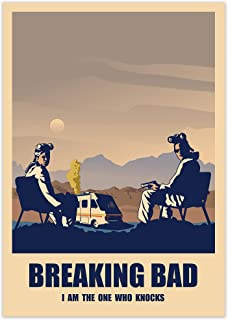
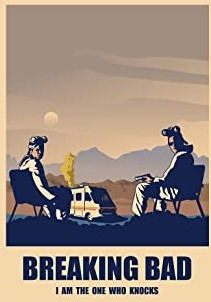
correccion interacciones botones nav - cambio img en info gral

diff --git a/index.js b/index.js
@@ -1,12 +1,3 @@
-/*
-PENDIENTE
-
-ver paginacion: https://breakingbadapi.com/api/characters?limit=10&offset=10 
-
-DOCUMENTACION: https://breakingbadapi.com/documentation
-
-SECCIONES CITAS Y MUERTES??*/
-
 
 //*****Seleccion elementos del Dom y Variables*******
 const UrlBase = "https://www.breakingbadapi.com/api/"
@@ -27,6 +18,7 @@ const inputBusqueda = document.querySelector("#input-busqueda")
 
 const botonAnterior = document.querySelector("#anterior")
 const botonSiguiente = document.querySelector("#siguiente")
+const contenedorPaginador = document.querySelector(".contenedor-paginador")
 
 const seccionPersonajes = document.querySelector(".seccion-personajes")
 const cardPersonajes = document.querySelector("#card-personajes")
@@ -55,15 +47,13 @@ const traerInfoPersonajes= () =>{
 botonAnterior.onclick = () => {
     paginaActual--
     traerInfoPersonajes()
-  }
+}
   
 botonSiguiente.onclick = () => {
     paginaActual++
     traerInfoPersonajes()
-  }
+}
   
-  traerInfoPersonajes()
-
 traerInfoPersonajes()
 
 //**********Get endpoint episodios************
@@ -123,47 +113,7 @@ const crearTarjetaEpisodios = (data) =>{
 traerInfoEpisodios()
 
 
-//***Interacciones con los botones nav y tarjeta individual****
-contenedorImgNav.onclick = () => {
-    hero.classList.remove("ocultar")
-    seccionBuscador.classList.add("ocultar")
-    seccionPersonajes.classList.add("ocultar")
-    seccionEpisodios.classList.add("ocultar")
-    contenedorTarjetasIndividuales.classList.add("ocultar")
-}
 
-// const botonInfo = document.querySelector(".boton-info")
-// const seccionInfoGeneral = document.querySelector(".info-general")
-botonInfo.onclick = () => {
-    hero.classList.add("ocultar")
-    seccionInfoGeneral.classList.remove("ocultar")
-}
-
-botonPersonajes.onclick = () => {
-    hero.classList.add("ocultar")
-    seccionBuscador.classList.remove("ocultar")
-    seccionPersonajes.classList.remove("ocultar")
-    seccionEpisodios.classList.add("ocultar")
-    cardPersonajes.classList.remove("ocultar")
-}
-
-botonEpisodios.onclick = () => {
-    hero.classList.add("ocultar")
-    seccionPersonajes.classList.add("ocultar")
-    seccionEpisodios.classList.remove("ocultar") 
-    seccionBuscador.classList.add("ocultar")
-    contenedorTarjetasIndividuales.classList.add("ocultar")
-}
-
-botonVolver.onclick = () => {
-    hero.classList.add("ocultar")
-    seccionBuscador.classList.remove("ocultar")
-    seccionPersonajes.classList.remove("ocultar")
-    seccionEpisodios.classList.add("ocultar")
-    cardPersonajes.classList.remove("ocultar")
-    //tarjetasIndividuales.classList.add("ocultar")
-    contenedorTarjetasIndividuales.classList.add("ocultar")
-}
 
 //*****busqueda por personajes en campo busqueda****
 const busquedaPersonajes = (busqueda) => {
@@ -172,15 +122,15 @@ const busquedaPersonajes = (busqueda) => {
         .then((res) => res.json())
         .then((data) => {
             crearTarjeta(data)
-
-        })
+    })
 }
 
 formBusqueda.onsubmit = (e) => {
     e.preventDefault()
     busquedaPersonajes(inputBusqueda.value)
+    
 }
-
+traerInfoPersonajes()
 
 //*******Card individual*******
 const verCardIndividual = (char_id) =>{
@@ -200,7 +150,7 @@ const verCardIndividual = (char_id) =>{
             <img id="imagen-personaje" src="${elemento.img}" alt="">
         </div>
         <p id="nombre-personaje"> <strong>Nombre:</strong> ${elemento.name}</p>
-        <p id="nickname-personaje"><strong>Nick Name:</strong> Nick Name:${elemento.nickname}</p>
+        <p id="nickname-personaje"><strong>Nick Name:</strong> ${elemento.nickname}</p>
         <p id="ocupacion-personaje"><strong>Ocupación:</strong>  ${elemento.occupation}</p>
         <p id="status-personaje"><strong>Status:</strong> ${elemento.status}</p>
         </div>
@@ -220,8 +170,51 @@ const clickTarjetaPersonaje = () =>{
             const idPersonajes = cards[i].dataset.id;
             contenedorTarjetasIndividuales.classList.remove("ocultar")
             cardPersonajes.classList.add("ocultar")
+            contenedorPaginador.classList.add("ocultar")
             verCardIndividual(idPersonajes);
         }
     }
 } 
 
+
+//***Interacciones con los botones nav y tarjeta individual****
+
+const addOcultar = () =>{
+    hero.classList.add("ocultar")
+    seccionBuscador.classList.add("ocultar")
+    seccionPersonajes.classList.add("ocultar")
+    seccionEpisodios.classList.add("ocultar")
+    contenedorTarjetasIndividuales.classList.add("ocultar")
+    seccionInfoGeneral.classList.add("ocultar")
+    
+}
+
+contenedorImgNav.onclick = () => {
+    addOcultar()
+    hero.classList.remove("ocultar")
+}
+
+botonInfo.onclick = () => {
+    addOcultar()
+    seccionInfoGeneral.classList.remove("ocultar")
+}
+
+botonPersonajes.onclick = () => {
+    addOcultar()
+    cardPersonajes.classList.remove("ocultar")
+    seccionBuscador.classList.remove("ocultar")
+    seccionPersonajes.classList.remove("ocultar")
+}
+
+botonEpisodios.onclick = () => {
+    addOcultar()
+    seccionEpisodios.classList.remove("ocultar") 
+}
+
+botonVolver.onclick = () => {
+    addOcultar()
+    contenedorPaginador.classList.remove("ocultar")
+    cardPersonajes.classList.remove("ocultar")
+    seccionBuscador.classList.remove("ocultar")
+    seccionPersonajes.classList.remove("ocultar")
+}

diff --git a/style.css b/style.css
@@ -28,9 +28,9 @@ p, h1, h2, h3, h4, h5, h6 {
   margin: 15px;
   border: 2px solid #6E6A5E;
   border-radius: 5px;
-  color: #54534f;
+  color: #0e0d0d;
   font-family: "Fira Sans", sans-serif;
-  background-color: #d6dbd9;
+  background-color: #eaecec;
   box-shadow: 5px 5px 12px -3px #EBD387;
   display: flex;
   flex-direction: column;
@@ -43,7 +43,7 @@ p, h1, h2, h3, h4, h5, h6 {
   width: 160px;
   height: 160px;
   overflow: hidden;
-  box-shadow: 5px 5px 12px -3px #54534f;
+  box-shadow: 5px 5px 12px -3px #0e0d0d;
   display: flex;
   flex-direction: row;
   justify-content: center;
@@ -70,9 +70,9 @@ p, h1, h2, h3, h4, h5, h6 {
   margin: 15px;
   border: 2px solid #6E6A5E;
   border-radius: 5px;
-  color: #54534f;
+  color: #0e0d0d;
   font-family: "Fira Sans", sans-serif;
-  background-color: #d6dbd9;
+  background-color: #eaecec;
   box-shadow: 5px 5px 12px -3px #EBD387;
   font-size: 15px;
   height: auto;
@@ -87,15 +87,15 @@ p, h1, h2, h3, h4, h5, h6 {
 }
 
 .tarjeta-individual {
-  width: 300px;
+  width: 350px;
   height: 240px;
   padding: 20px;
   margin: 15px;
   border: 2px solid #6E6A5E;
   border-radius: 5px;
-  color: #54534f;
+  color: #0e0d0d;
   font-family: "Fira Sans", sans-serif;
-  background-color: #d6dbd9;
+  background-color: #eaecec;
   box-shadow: 5px 5px 12px -3px #EBD387;
   display: flex;
   flex-direction: column;
@@ -111,7 +111,7 @@ nav {
   justify-content: space-around;
   align-items: center;
   flex-wrap: wrap;
-  background-color: #54534f;
+  background-color: #0e0d0d;
   position: fixed;
   z-index: 3;
   padding-bottom: 20px;
@@ -169,7 +169,7 @@ label {
 
 .input-busqueda {
   margin-top: 180px;
-  background-color: #54534f;
+  background-color: #0e0d0d;
   border: 0;
   border-bottom: solid 3px #EBD387;
   font-family: "Fira Sans", sans-serif;
@@ -204,7 +204,7 @@ label {
 .info-general {
   display: flex;
   flex-direction: row;
-  justify-content: justify-content;
+  justify-content: space-around;
   align-items: center;
   flex-wrap: wrap;
   font-family: "Fira Sans", sans-serif;
@@ -212,12 +212,11 @@ label {
   font-size: 20px;
   font-weight: 200;
   text-align: justify;
+  padding-top: 180px;
 }
 
 .contenedor-parrafo {
   width: 600px;
-  padding-top: 180px;
-  margin: auto;
 }
 
 .contenedor-paginador {
@@ -228,11 +227,11 @@ label {
   flex-wrap: wrap;
   width: 400px;
   margin: auto;
-  margin-bottom: 10px;
+  margin-top: 10px;
 }
 
 .boton-volver {
-  background-color: #54534f;
+  background-color: #0e0d0d;
   color: #EEE7CF;
   border: 0;
   font-size: 30px;
@@ -250,7 +249,7 @@ span {
 }
 
 #anterior {
-  background-color: #54534f;
+  background-color: #0e0d0d;
   color: #EEE7CF;
   border: 0;
   font-size: 30px;
@@ -258,7 +257,7 @@ span {
 }
 
 #siguiente {
-  background-color: #54534f;
+  background-color: #0e0d0d;
   color: #EEE7CF;
   border: 0;
   font-size: 30px;
@@ -276,7 +275,7 @@ span {
 }
 
 body {
-  background-color: #54534f;
+  background-color: #0e0d0d;
 }
 
 .ocultar {

diff --git a/index.html b/index.html
@@ -28,9 +28,9 @@
 
     <!-- Sección información general -->
     <section class="info-general ocultar">
-        <div class="contenerdor-img-info"><img src="./assets/walter.jpg" alt=""></div>
+        <div class="contenerdor-img-info"><img src="./assets/poster.jpg" alt=""></div>
         <div class="contenedor-parrafo">
-                        <p><strong>Breaking Bad</strong> es una serie de televisión estadounidense creada y producida por Vince Gilligan. Situada y producida en Albuquerque, Nuevo México, consiste en la historia de <strong>Walter White</strong>, un profesor de química al que diagnostican un cáncer de pulmón inoperable.</p>
+            <p><strong>Breaking Bad</strong> es una serie de televisión estadounidense creada y producida por Vince Gilligan. Situada y producida en Albuquerque, Nuevo México, consiste en la historia de <strong>Walter White</strong>, un profesor de química al que diagnostican un cáncer de pulmón inoperable.</p>
             <br>
             <p>Al concluir que su enfermedad iba a arruinar financieramente a su familia, él toma una decisión con el fin de ganar más dinero durante el tiempo que le queda y transforma una vieja Caravan en un laboratorio  sobre ruedas.</p>
             <br>
@@ -53,11 +53,13 @@
 
     <!-- Sección personajes  -->
     <section class="seccion-personajes ocultar">
+        
+        <div id="card-personajes" class="contenedor-tarjetas"></div>
         <div class="contenedor-paginador">
             <button id="anterior"><span><i class="fas fa-angle-left"></i></span>Anterior</button>
             <button id="siguiente">Siguiente<span><i class="fas fa-angle-right"></i></span></button>
         </div>
-        <div id="card-personajes" class="contenedor-tarjetas"></div>
+
     </section>
     
     <!-- tarjeta individual personaje -->

diff --git a/variables.scss b/variables.scss
@@ -6,7 +6,7 @@
 
 
 
-$color-principal: #54534f;
+$color-principal: #0e0d0d;
 $tipografia-principal: 'Fira Sans', sans-serif;;
 $color-secundario: #EEE7CF;
 $color-terciario: #EBD387;
@@ -14,4 +14,4 @@ $color-cuaternario:#6E6A5E;
 $tipografia-secundaria: 'Courier New';
 $distancia-sombra: 15px;
 $sombra: rgba(0, 0, 0, 0.35) 0px 5px $distancia-sombra;
-$color-tarjeta-adentro: #d6dbd9;
+$color-tarjeta-adentro: #eaecec;

diff --git a/componentes/_secciones.scss b/componentes/_secciones.scss
@@ -10,19 +10,16 @@
 }
 
 .info-general{
-    @include displayflex($content: justify-content);
+    @include displayflex($content: space-around);
     font-family: $tipografia-principal;
     color: $color-secundario;
     font-size: 20px;
     font-weight: 200;
     text-align: justify;
+    padding-top: 180px;
 }
 
 .contenedor-parrafo{
     width: 600px;
-    padding-top: 180px;
-    margin: auto;
-
-    
 }
 

diff --git a/componentes/_card.scss b/componentes/_card.scss
@@ -31,7 +31,7 @@
 }
 
 .tarjeta-individual{
-    @include  card($width: 300px);
+    @include  card($width: 350px);
     @include displayflex($direction:column, $content: space-between);
     height: 350px;
 }

diff --git a/componentes/_paginador.scss b/componentes/_paginador.scss
@@ -2,5 +2,5 @@
     @include displayflex($content: space-between);
     width: 400px;
     margin: auto;
-    margin-bottom: 10px;
+    margin-top: 10px;
 }
